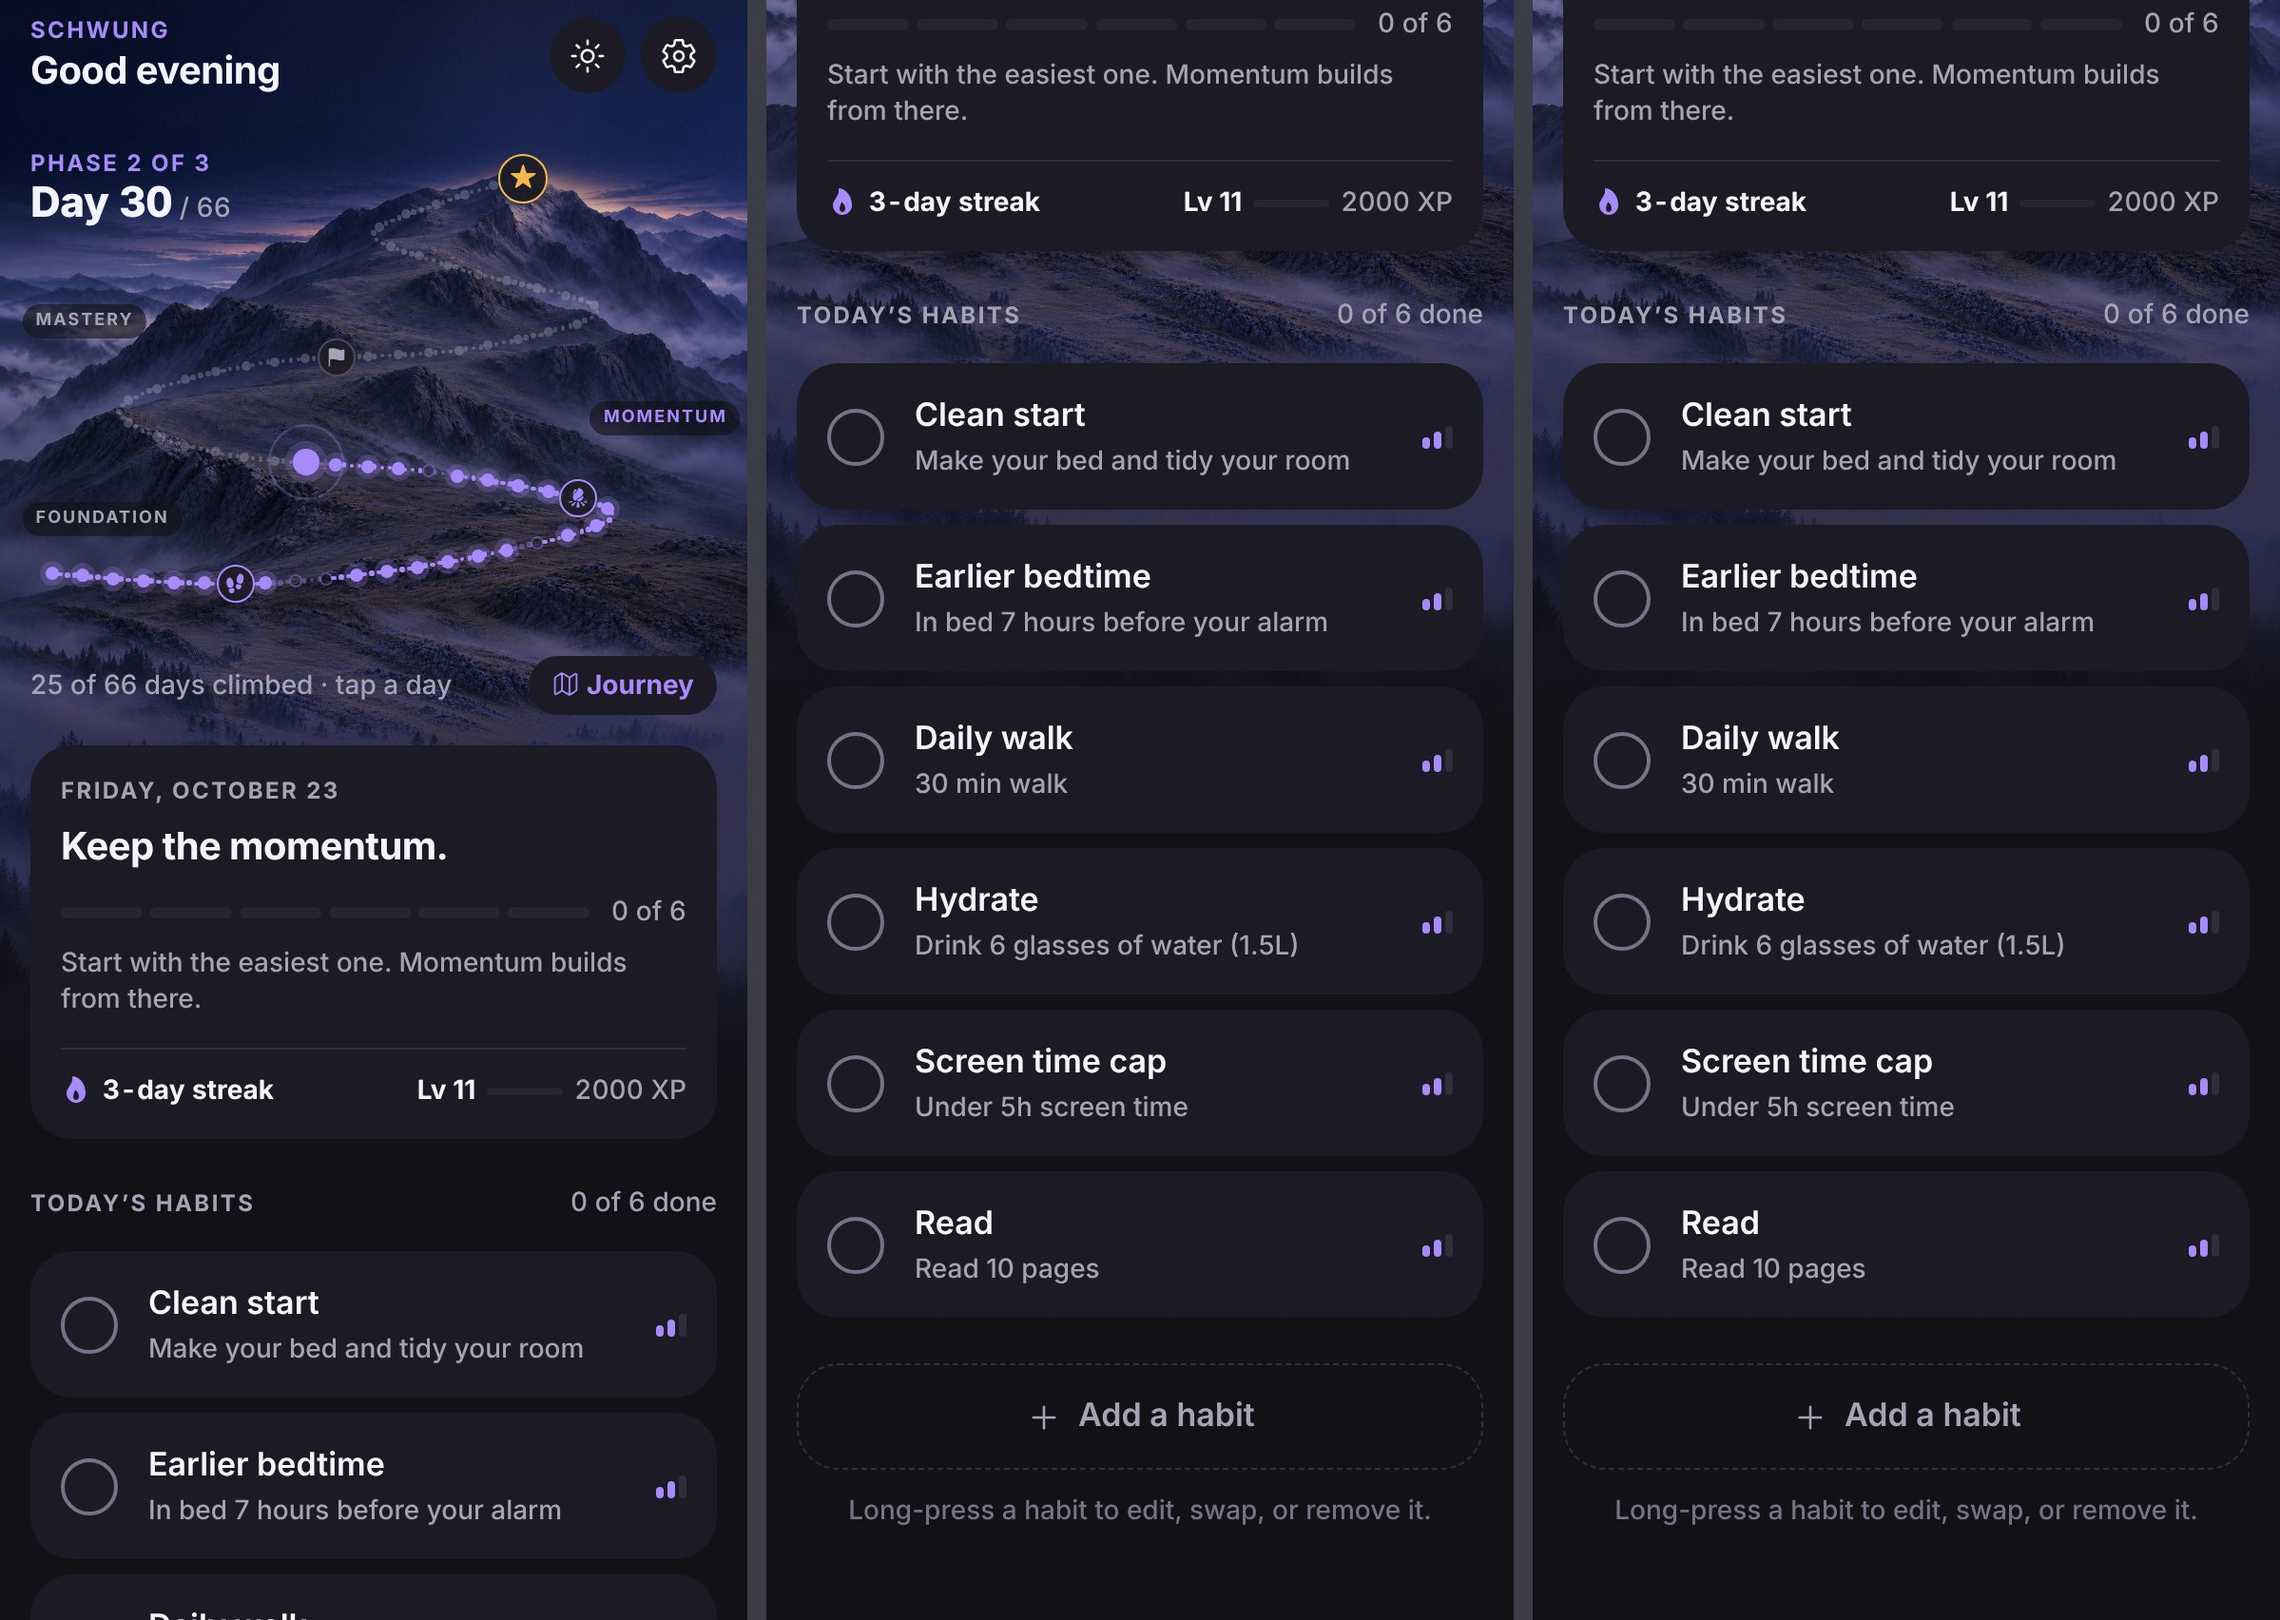
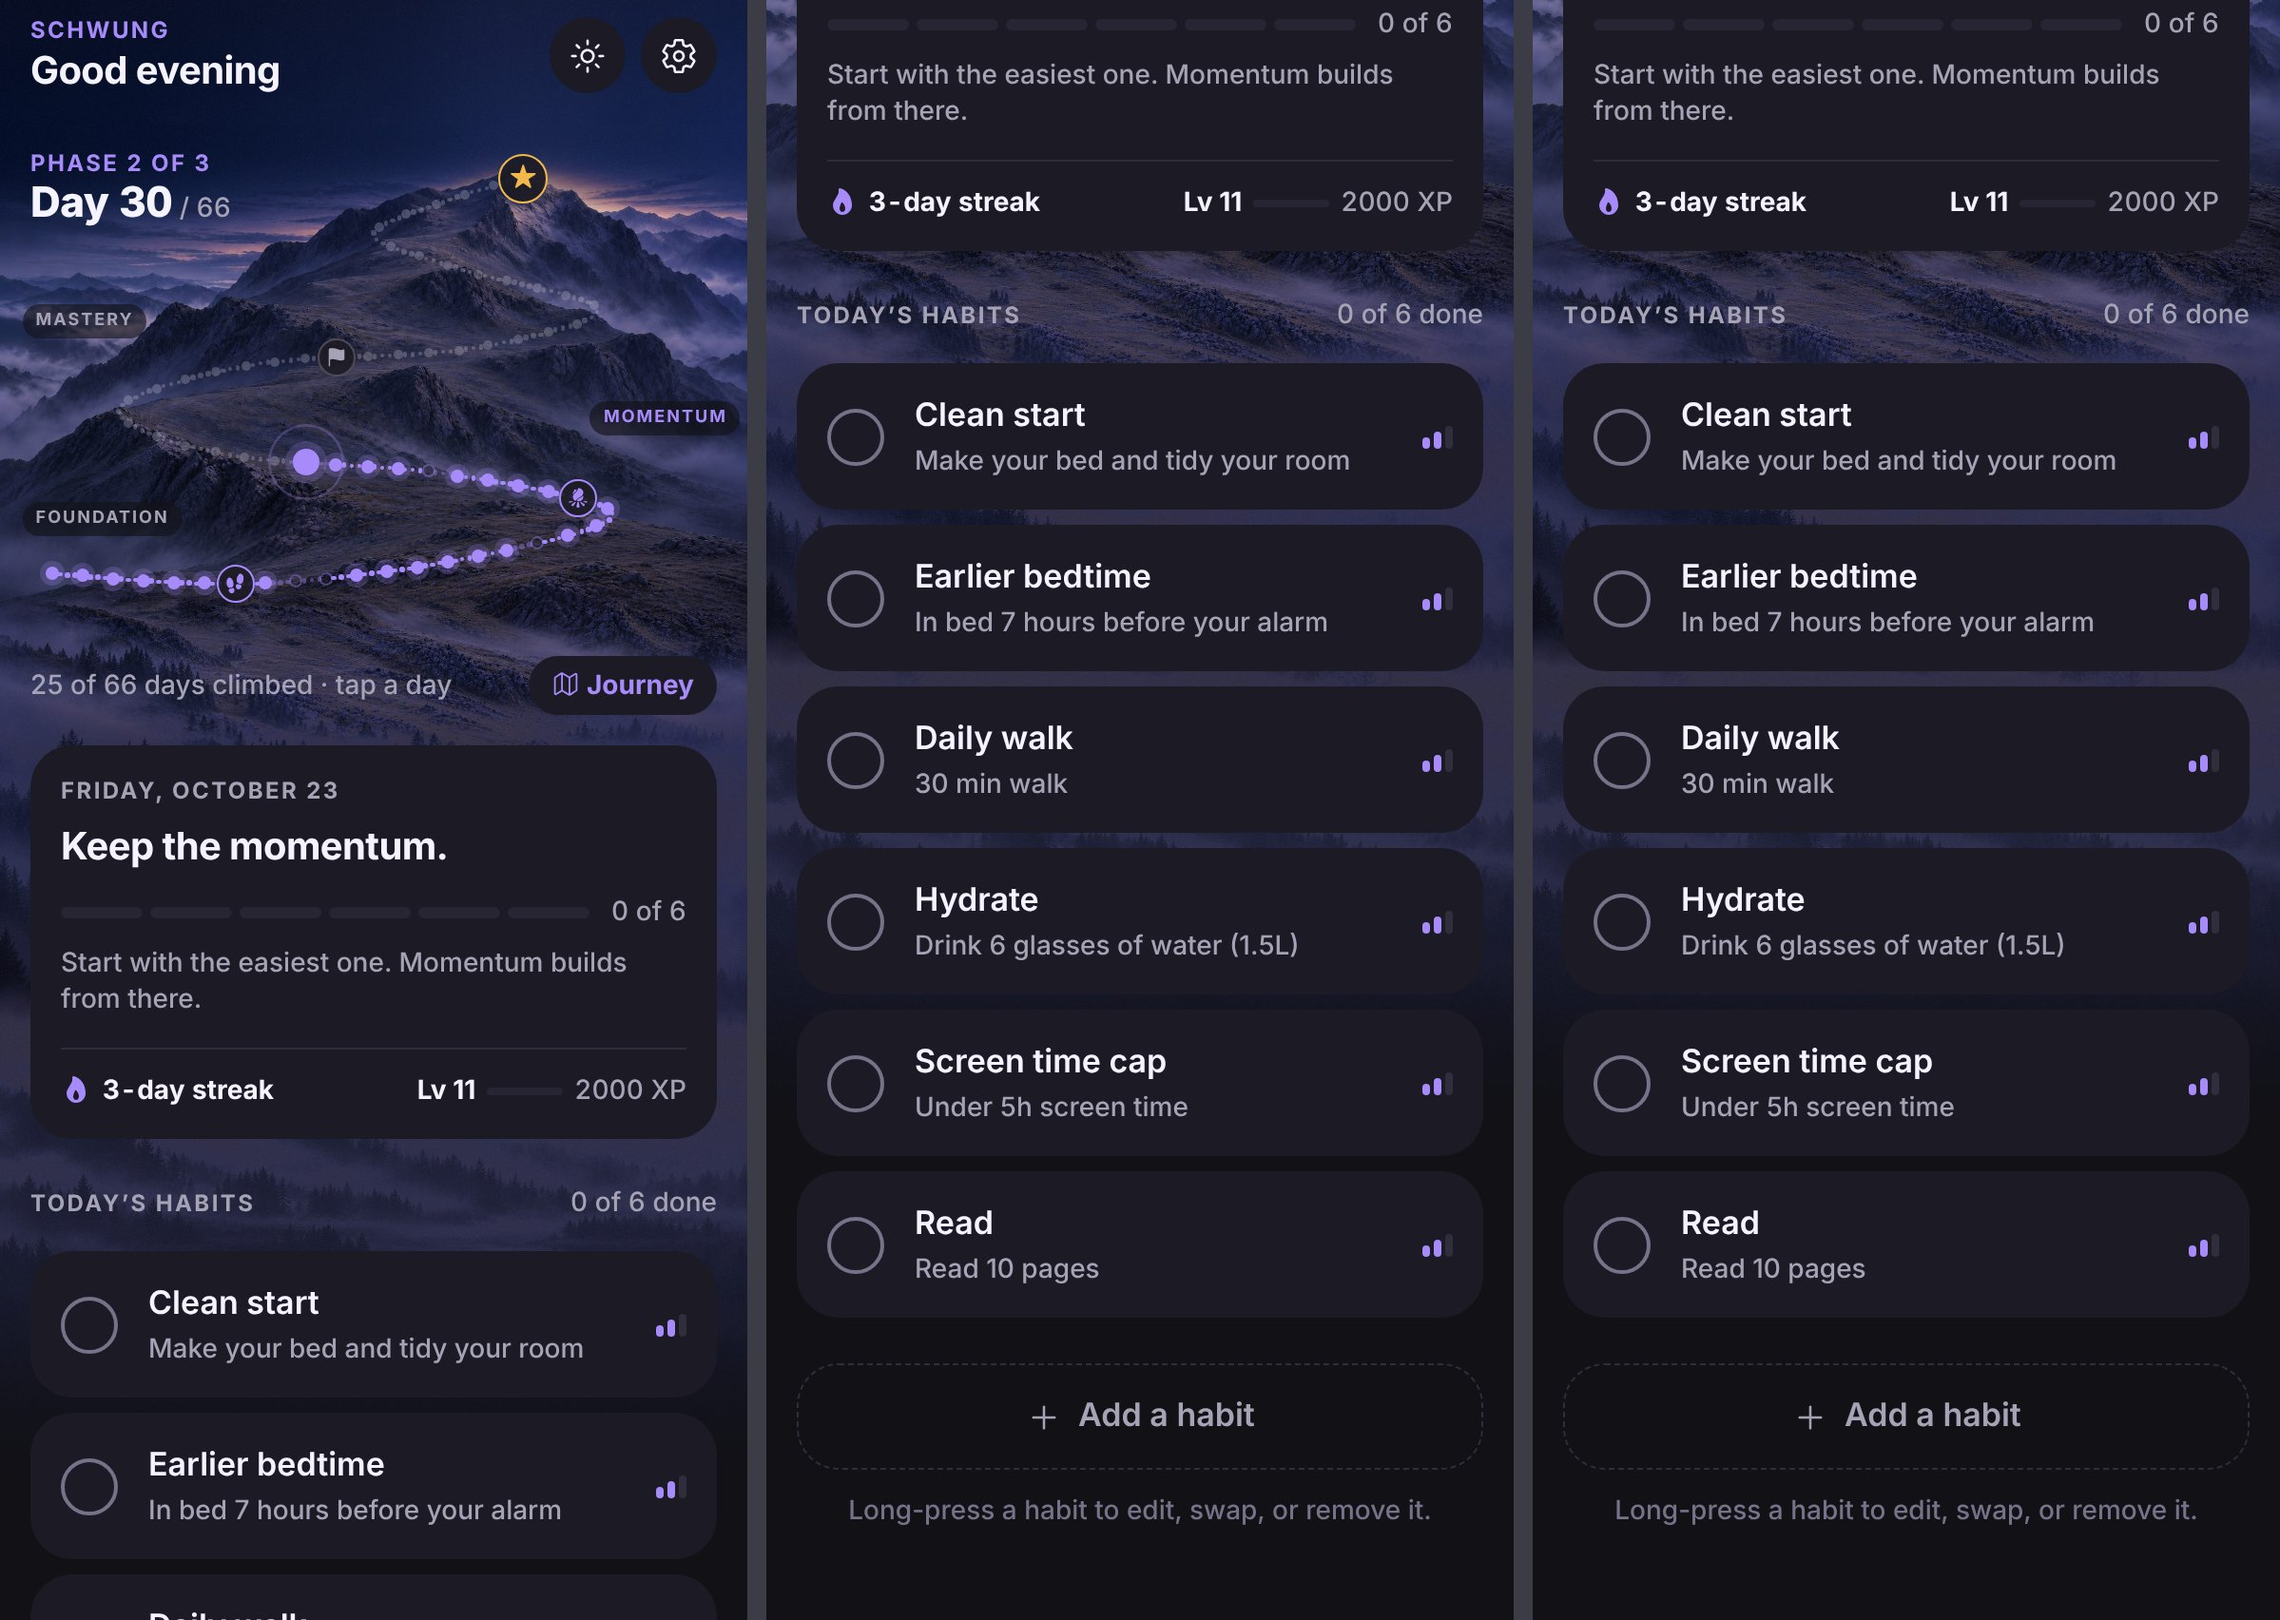
Extend the dark world down to the valley lake
The dark canvas now continues past the forest to the misty valley and lake
before fading into the background. Light keeps ending at the forest (padded
to the same height) until its valley piece arrives.

Claude-Session: https://claude.ai/code/session_01TpqLTggzL92uJWvftw7JkZ

Changed region(s): [[0.3086, 0.3732, 1.0, 0.591], [0.0, 0.6221, 0.3394, 0.8087]]

diff --git a/src/core/world.ts b/src/core/world.ts
@@ -2,14 +2,14 @@ import { ASCENT_ASPECT } from './ascent';
 
 /*
  * The full-screen world: assets/world-*.jpg are the Ascent painting with sky above and the descent below it
- * (slopes, treeline, forest), fading into the app background (design/canvas/assemble_canvas.py).
+ * (slopes, treeline, forest, valley), fading into the app background (design/canvas/assemble_canvas.py).
  * The painting itself (where the trail is drawn) sits untouched at a fixed place inside the tall image,
  * so lining the trail up with it is just a matter of scale.
  */
 export const WORLD = {
   /** Source image size in px. */
   width: 1536,
-  height: 2816,
+  height: 3584,
   /** Where the 3:2 painting starts inside the tall image, in px. */
   paintingTop: 800,
 } as const;
